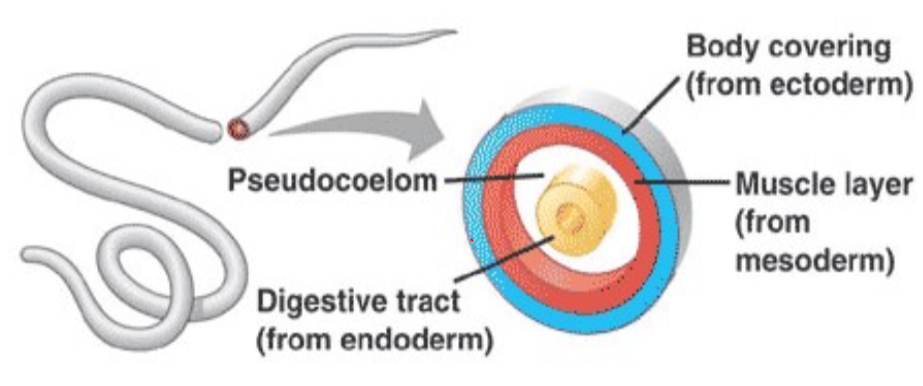
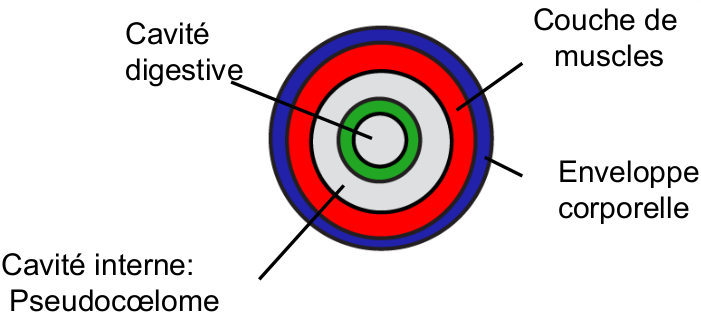
GitBook: [master] one page and 5 assets modified

diff --git a/biodiversite/biodiversite-animal.md b/biodiversite/biodiversite-animal.md
@@ -403,12 +403,41 @@ Chaque pétale sur le polype donne une méduse
   * Nudibranches
 {% endhint %}
 
+### Conséquence de la triploblastie
+
+{% hint style="warning" %}
+Apparition du feuillet mésoderme en plus de l'ectoderme et de l'endoderme. Le mésoderme apparaît à partir des parois de l'archentéron.  
+Liste du devenir des différent feuillet
+
+* Endoderme
+  * Nutrition
+  * Respiration
+* Mésoderme
+  * Soutient et tous le reste
+* Ectoderme
+  * Contact avec l’extérieur
+  * Système nerveux
+  * Épithélium
+
+La triploblastie est aussi appelé bilatérien
+{% endhint %}
+
+#### Deux mise en place
+
+Il y a deux mode de mise en place de cœlome, **schizocœlie** et **entérocœlie**
+
+![Schizoc&#x153;lie et Ent&#xE9;roc&#x153;lie](../.gitbook/assets/schizocoelie-et-eterocoelie.png)
+
+{% hint style="danger" %}
+Le cœlome n'est pas un caractère phylogénétique
+{% endhint %}
+
 ## Cœlome
 
 ![Origine du c&#x153;lome](../.gitbook/assets/origine-du-coelome.png)
 
 {% hint style="warning" %}
-Le cœlome le regroupement des cavités secondaire d'un animal
+Le cœlome le regroupement des cavités secondaire d'un animal. C'est une cavité creusé dans le mésoderme, délimité par une couche de cellules appelé péritoine ou mésothélium
 
 * Sac poumon -&gt; Plèvre
 * Sac cœur -&gt; Péricarde
@@ -438,6 +467,8 @@ Il existes différents système chez un métazoaire
 Les acœlomates sont les animaux qui n'ont pas de cavité interne
 {% endhint %}
 
+![Ac&#x153;lomate](../.gitbook/assets/etat-acoelomate.png)
+
 ![](../.gitbook/assets/coupe-transversale-dun-planaire.png)
 
 ![Vu longitudinale d&apos;un planaire](../.gitbook/assets/vue-longitidunale-dun-planaire.png)
@@ -454,11 +485,15 @@ La formation du pseudocœlome est différente de celle du cœlome puisqu’il s
 
 ![Pseudoc&#x153;lomate](../.gitbook/assets/pseudocoelomate.png)
 
+![Pseudoc&#x153;lomate](../.gitbook/assets/pseudocoelomate%20%281%29.png)
+
 #### Cœlomates
 
 {% hint style="warning" %}
 Cavité formé dans le mésoderme
 {% endhint %}
+
+![C&#x153;lomate](../.gitbook/assets/coelomate.png)
 
 ![C&#x153;lomate](../.gitbook/assets/coelomates.png)
 
